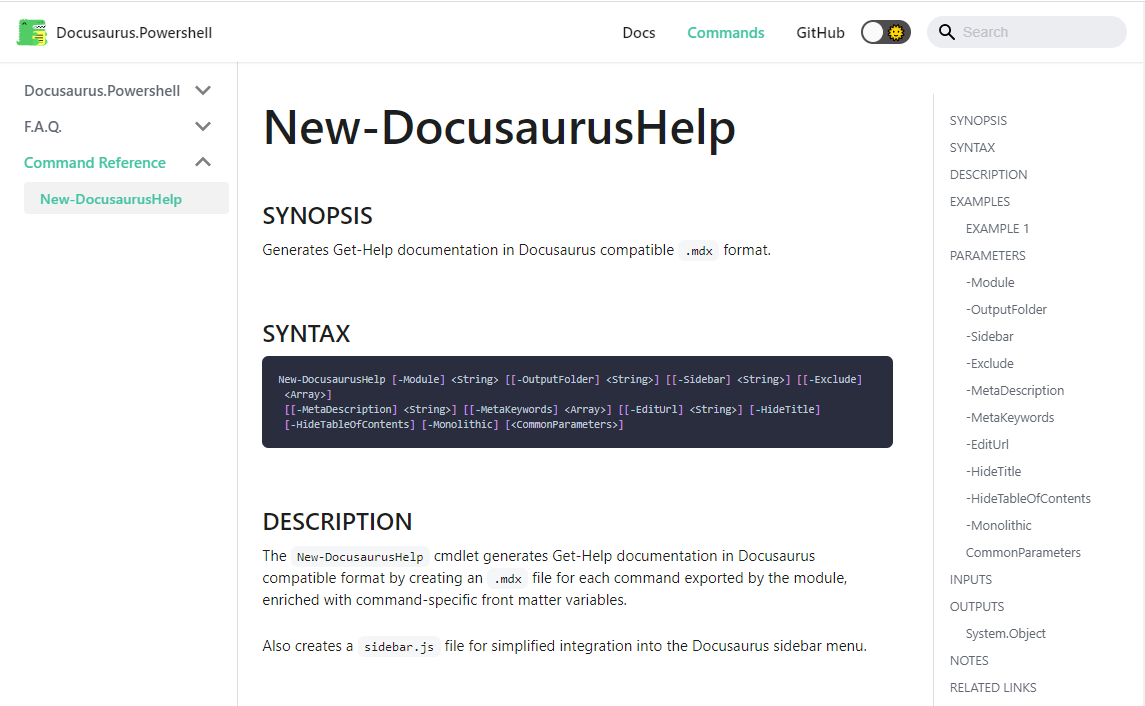
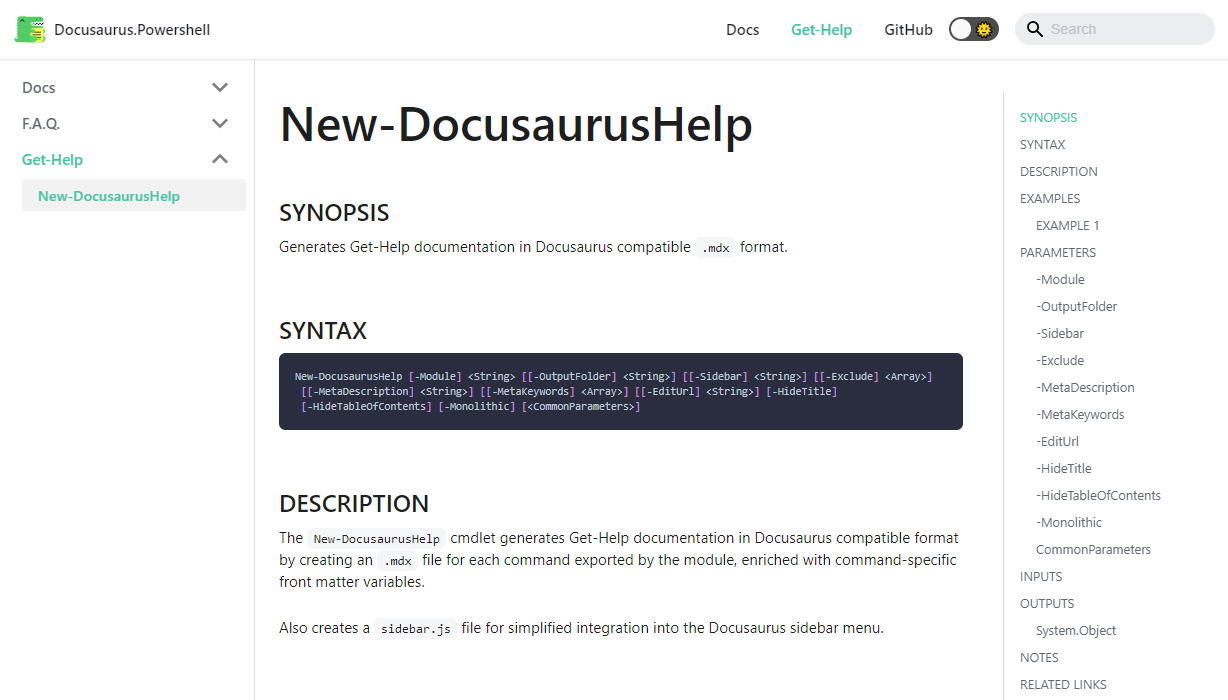
docs: rename nav item Commands to Get-Help

diff --git a/docusaurus/docusaurus.config.js b/docusaurus/docusaurus.config.js
@@ -7,7 +7,7 @@
 
 module.exports = {
   title: 'Docusaurus.Powershell',
-  tagline: 'Awesome documentation for Powershell Modules',
+  tagline: 'Documentation websites for Powershell Modules',
   url: 'https://docusaurus-powershell.netlify.com/',
   baseUrl: '/',
   favicon: 'img/favicon.ico',
@@ -22,7 +22,7 @@ module.exports = {
       },
       links: [
         {to: 'docs/introduction', label: 'Docs', position: 'right'},
-        {to: 'docs/commands/New-DocusaurusHelp', label: 'Commands', position: 'right'},
+        {to: 'docs/commands/New-DocusaurusHelp', label: 'Get-Help', position: 'right'},
         {
           href: 'https://github.com/alt3/Docusaurus.Powershell',
           label: 'GitHub',
@@ -54,7 +54,7 @@ module.exports = {
               to: 'docs/usage',
             },
             {
-              label: 'Commands',
+              label: 'Get-Help',
               to: 'docs/commands/New-DocusaurusHelp',
             },
           ],

diff --git a/docusaurus/src/pages/index.js b/docusaurus/src/pages/index.js
@@ -24,11 +24,11 @@ const features = [
     ),
   },
   {
-    title: <>Focus on What Matters</>,
+    title: <>Autogenerated Get-Help</>,
     imageUrl: 'img/undraw_docusaurus_tree.svg',
     description: (
       <>
-        Write Get-Help documentation, nothing else.
+        Document your Powershell code, nothing else.
       </>
     ),
   },

diff --git a/docusaurus/sidebars.js b/docusaurus/sidebars.js
@@ -20,6 +20,6 @@ module.exports = {
       'faq/search',
       'faq/ci-cd',
     ],
-    "Command Reference": commands,
+    "Get-Help": commands,
   },
 };

diff --git a/README.md b/README.md
@@ -6,7 +6,7 @@
 [![Azure DevOps coverage](https://img.shields.io/azure-devops/coverage/alt3bv/Docusaurus.Powershell/2?style=flat-square)](https://dev.azure.com/alt3bv/Docusaurus.Powershell/_build)
 [![Contributor Covenant](https://img.shields.io/badge/Contributor%20Covenant-v1.4%20adopted-ff69b4.svg?style=flat-square)](code-of-conduct.md)
 
-Showcase websites for Powershell Modules.
+Documentation websites for Powershell Modules.
 
 ## Live Demo
 
